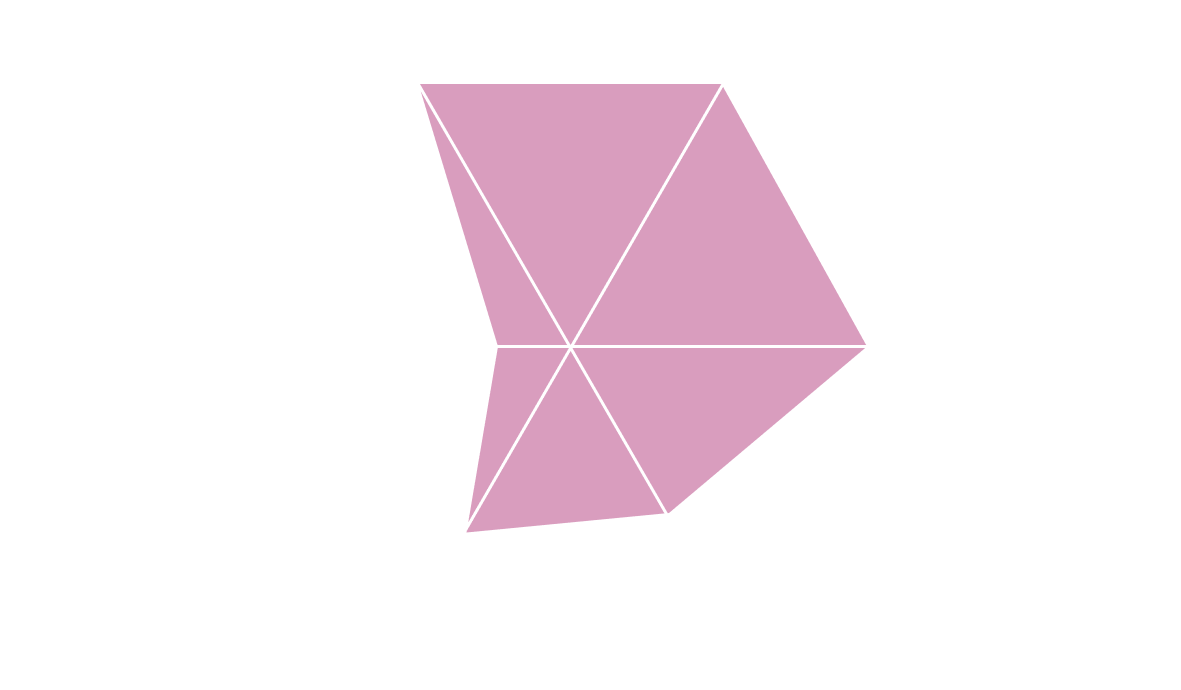
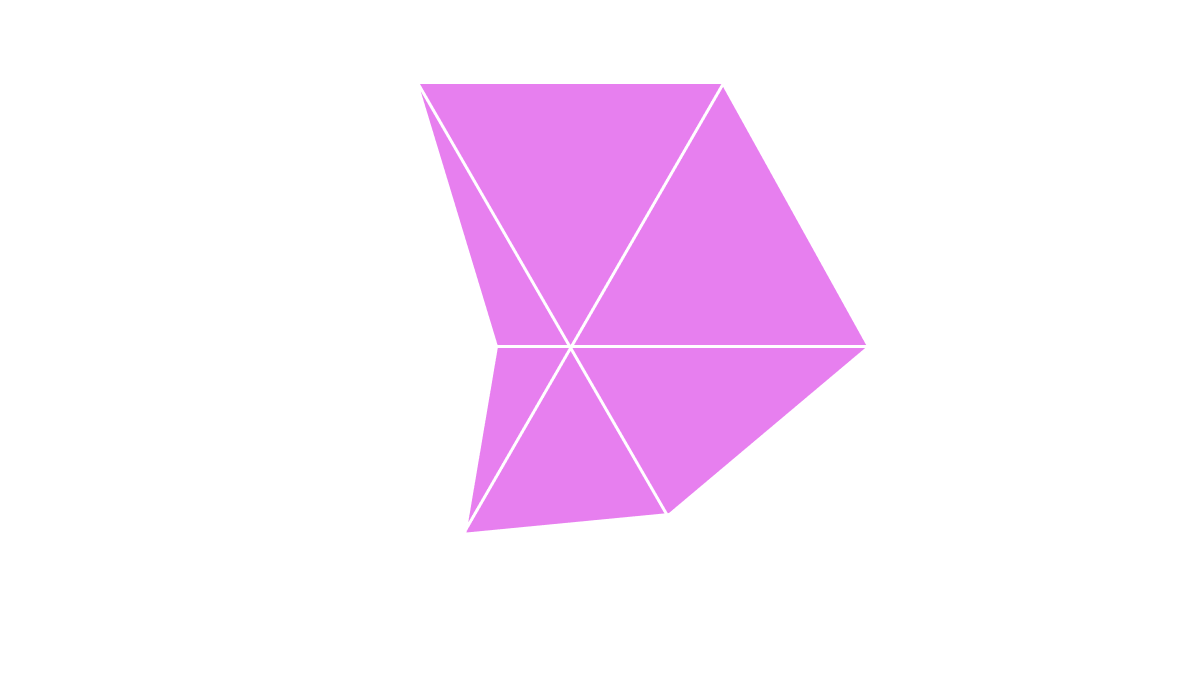
changing colors

Changed region(s): [[0.3353, 0.1217, 0.7316, 0.7913]]

diff --git a/src/reservation.html b/src/reservation.html
@@ -84,14 +84,14 @@
                 >
                   <path
                     d="M124.5 100.995V37.4861C124.5 36.7541 124.305 36.0353 123.933 35.4045C123.562 34.7736 123.029 34.2536 122.389 33.8986L64.9885 2.01429C64.3801 1.67685 63.6958 1.49979 63 1.49979C62.3043 1.49979 61.6199 1.67685 61.0115 2.01429L3.6115 33.8986C2.97134 34.2536 2.4379 34.7736 2.06659 35.4045C1.69528 36.0353 1.49964 36.7541 1.5 37.4861V100.995C1.50086 101.726 1.69708 102.443 2.06832 103.073C2.43957 103.702 2.97235 104.221 3.6115 104.576L61.0115 136.467C61.6199 136.804 62.3043 136.981 63 136.981C63.6958 136.981 64.3801 136.804 64.9885 136.467L122.389 104.576C123.028 104.221 123.56 103.702 123.932 103.073C124.303 102.443 124.499 101.726 124.5 100.995Z"
-                    stroke="#22E100"
+                    stroke="var(--green)"
                     stroke-width="3"
                     stroke-linecap="round"
                     stroke-linejoin="round"
                   />
                   <path
                     d="M3.5 102.5L61.0047 70.3478C61.614 70.0091 62.2995 69.8314 62.9966 69.8314C63.6937 69.8314 64.3793 70.0091 64.9885 70.3478L123 102.5M63 3V69.2408"
-                    stroke="#22E100"
+                    stroke="var(--green)"
                     stroke-width="3"
                     stroke-linecap="round"
                     stroke-linejoin="round"
@@ -143,14 +143,14 @@
                 >
                   <path
                     d="M124.5 100.995V37.4861C124.5 36.7541 124.305 36.0353 123.933 35.4045C123.562 34.7736 123.029 34.2536 122.389 33.8986L64.9885 2.01429C64.3801 1.67685 63.6958 1.49979 63 1.49979C62.3043 1.49979 61.6199 1.67685 61.0115 2.01429L3.6115 33.8986C2.97134 34.2536 2.4379 34.7736 2.06659 35.4045C1.69528 36.0353 1.49964 36.7541 1.5 37.4861V100.995C1.50086 101.726 1.69708 102.443 2.06832 103.073C2.43957 103.702 2.97235 104.221 3.6115 104.576L61.0115 136.467C61.6199 136.804 62.3043 136.981 63 136.981C63.6958 136.981 64.3801 136.804 64.9885 136.467L122.389 104.576C123.028 104.221 123.56 103.702 123.932 103.073C124.303 102.443 124.499 101.726 124.5 100.995Z"
-                    stroke="#B43B7D"
+                    stroke="var(--pink)"
                     stroke-width="3"
                     stroke-linecap="round"
                     stroke-linejoin="round"
                   />
                   <path
                     d="M3.5 102.5L61.0047 70.3478C61.614 70.0091 62.2995 69.8314 62.9966 69.8314C63.6937 69.8314 64.3793 70.0091 64.9885 70.3478L123 102.5M63 3V69.2408"
-                    stroke="#B43B7D"
+                    stroke="var(--pink)"
                     stroke-width="3"
                     stroke-linecap="round"
                     stroke-linejoin="round"

diff --git a/src/salle-forest.html b/src/salle-forest.html
@@ -86,14 +86,14 @@
                 >
                   <path
                     d="M124.5 100.995V37.4861C124.5 36.7541 124.305 36.0353 123.933 35.4045C123.562 34.7736 123.029 34.2536 122.389 33.8986L64.9885 2.01429C64.3801 1.67685 63.6958 1.49979 63 1.49979C62.3043 1.49979 61.6199 1.67685 61.0115 2.01429L3.6115 33.8986C2.97134 34.2536 2.4379 34.7736 2.06659 35.4045C1.69528 36.0353 1.49964 36.7541 1.5 37.4861V100.995C1.50086 101.726 1.69708 102.443 2.06832 103.073C2.43957 103.702 2.97235 104.221 3.6115 104.576L61.0115 136.467C61.6199 136.804 62.3043 136.981 63 136.981C63.6958 136.981 64.3801 136.804 64.9885 136.467L122.389 104.576C123.028 104.221 123.56 103.702 123.932 103.073C124.303 102.443 124.499 101.726 124.5 100.995Z"
-                    stroke="#22E100"
+                    stroke="var(--green)"
                     stroke-width="3"
                     stroke-linecap="round"
                     stroke-linejoin="round"
                   />
                   <path
                     d="M3.5 102.5L61.0047 70.3478C61.614 70.0091 62.2995 69.8314 62.9966 69.8314C63.6937 69.8314 64.3793 70.0091 64.9885 70.3478L123 102.5M63 3V69.2408"
-                    stroke="#22E100"
+                    stroke="var(--green)"
                     stroke-width="3"
                     stroke-linecap="round"
                     stroke-linejoin="round"
@@ -145,14 +145,14 @@
                 >
                   <path
                     d="M124.5 100.995V37.4861C124.5 36.7541 124.305 36.0353 123.933 35.4045C123.562 34.7736 123.029 34.2536 122.389 33.8986L64.9885 2.01429C64.3801 1.67685 63.6958 1.49979 63 1.49979C62.3043 1.49979 61.6199 1.67685 61.0115 2.01429L3.6115 33.8986C2.97134 34.2536 2.4379 34.7736 2.06659 35.4045C1.69528 36.0353 1.49964 36.7541 1.5 37.4861V100.995C1.50086 101.726 1.69708 102.443 2.06832 103.073C2.43957 103.702 2.97235 104.221 3.6115 104.576L61.0115 136.467C61.6199 136.804 62.3043 136.981 63 136.981C63.6958 136.981 64.3801 136.804 64.9885 136.467L122.389 104.576C123.028 104.221 123.56 103.702 123.932 103.073C124.303 102.443 124.499 101.726 124.5 100.995Z"
-                    stroke="#B43B7D"
+                    stroke="var(--pink)"
                     stroke-width="3"
                     stroke-linecap="round"
                     stroke-linejoin="round"
                   />
                   <path
                     d="M3.5 102.5L61.0047 70.3478C61.614 70.0091 62.2995 69.8314 62.9966 69.8314C63.6937 69.8314 64.3793 70.0091 64.9885 70.3478L123 102.5M63 3V69.2408"
-                    stroke="#B43B7D"
+                    stroke="var(--pink)"
                     stroke-width="3"
                     stroke-linecap="round"
                     stroke-linejoin="round"

diff --git a/src/salle-pirate.html b/src/salle-pirate.html
@@ -86,14 +86,14 @@
                 >
                   <path
                     d="M124.5 100.995V37.4861C124.5 36.7541 124.305 36.0353 123.933 35.4045C123.562 34.7736 123.029 34.2536 122.389 33.8986L64.9885 2.01429C64.3801 1.67685 63.6958 1.49979 63 1.49979C62.3043 1.49979 61.6199 1.67685 61.0115 2.01429L3.6115 33.8986C2.97134 34.2536 2.4379 34.7736 2.06659 35.4045C1.69528 36.0353 1.49964 36.7541 1.5 37.4861V100.995C1.50086 101.726 1.69708 102.443 2.06832 103.073C2.43957 103.702 2.97235 104.221 3.6115 104.576L61.0115 136.467C61.6199 136.804 62.3043 136.981 63 136.981C63.6958 136.981 64.3801 136.804 64.9885 136.467L122.389 104.576C123.028 104.221 123.56 103.702 123.932 103.073C124.303 102.443 124.499 101.726 124.5 100.995Z"
-                    stroke="#22E100"
+                    stroke="var(--green)"
                     stroke-width="3"
                     stroke-linecap="round"
                     stroke-linejoin="round"
                   />
                   <path
                     d="M3.5 102.5L61.0047 70.3478C61.614 70.0091 62.2995 69.8314 62.9966 69.8314C63.6937 69.8314 64.3793 70.0091 64.9885 70.3478L123 102.5M63 3V69.2408"
-                    stroke="#22E100"
+                    stroke="var(--green)"
                     stroke-width="3"
                     stroke-linecap="round"
                     stroke-linejoin="round"
@@ -145,14 +145,14 @@
                 >
                   <path
                     d="M124.5 100.995V37.4861C124.5 36.7541 124.305 36.0353 123.933 35.4045C123.562 34.7736 123.029 34.2536 122.389 33.8986L64.9885 2.01429C64.3801 1.67685 63.6958 1.49979 63 1.49979C62.3043 1.49979 61.6199 1.67685 61.0115 2.01429L3.6115 33.8986C2.97134 34.2536 2.4379 34.7736 2.06659 35.4045C1.69528 36.0353 1.49964 36.7541 1.5 37.4861V100.995C1.50086 101.726 1.69708 102.443 2.06832 103.073C2.43957 103.702 2.97235 104.221 3.6115 104.576L61.0115 136.467C61.6199 136.804 62.3043 136.981 63 136.981C63.6958 136.981 64.3801 136.804 64.9885 136.467L122.389 104.576C123.028 104.221 123.56 103.702 123.932 103.073C124.303 102.443 124.499 101.726 124.5 100.995Z"
-                    stroke="#B43B7D"
+                    stroke="var(--pink)"
                     stroke-width="3"
                     stroke-linecap="round"
                     stroke-linejoin="round"
                   />
                   <path
                     d="M3.5 102.5L61.0047 70.3478C61.614 70.0091 62.2995 69.8314 62.9966 69.8314C63.6937 69.8314 64.3793 70.0091 64.9885 70.3478L123 102.5M63 3V69.2408"
-                    stroke="#B43B7D"
+                    stroke="var(--pink)"
                     stroke-width="3"
                     stroke-linecap="round"
                     stroke-linejoin="round"

diff --git a/src/salle-witch.html b/src/salle-witch.html
@@ -86,14 +86,14 @@
                 >
                   <path
                     d="M124.5 100.995V37.4861C124.5 36.7541 124.305 36.0353 123.933 35.4045C123.562 34.7736 123.029 34.2536 122.389 33.8986L64.9885 2.01429C64.3801 1.67685 63.6958 1.49979 63 1.49979C62.3043 1.49979 61.6199 1.67685 61.0115 2.01429L3.6115 33.8986C2.97134 34.2536 2.4379 34.7736 2.06659 35.4045C1.69528 36.0353 1.49964 36.7541 1.5 37.4861V100.995C1.50086 101.726 1.69708 102.443 2.06832 103.073C2.43957 103.702 2.97235 104.221 3.6115 104.576L61.0115 136.467C61.6199 136.804 62.3043 136.981 63 136.981C63.6958 136.981 64.3801 136.804 64.9885 136.467L122.389 104.576C123.028 104.221 123.56 103.702 123.932 103.073C124.303 102.443 124.499 101.726 124.5 100.995Z"
-                    stroke="#22E100"
+                    stroke="var(--green)"
                     stroke-width="3"
                     stroke-linecap="round"
                     stroke-linejoin="round"
                   />
                   <path
                     d="M3.5 102.5L61.0047 70.3478C61.614 70.0091 62.2995 69.8314 62.9966 69.8314C63.6937 69.8314 64.3793 70.0091 64.9885 70.3478L123 102.5M63 3V69.2408"
-                    stroke="#22E100"
+                    stroke="var(--green)"
                     stroke-width="3"
                     stroke-linecap="round"
                     stroke-linejoin="round"
@@ -145,14 +145,14 @@
                 >
                   <path
                     d="M124.5 100.995V37.4861C124.5 36.7541 124.305 36.0353 123.933 35.4045C123.562 34.7736 123.029 34.2536 122.389 33.8986L64.9885 2.01429C64.3801 1.67685 63.6958 1.49979 63 1.49979C62.3043 1.49979 61.6199 1.67685 61.0115 2.01429L3.6115 33.8986C2.97134 34.2536 2.4379 34.7736 2.06659 35.4045C1.69528 36.0353 1.49964 36.7541 1.5 37.4861V100.995C1.50086 101.726 1.69708 102.443 2.06832 103.073C2.43957 103.702 2.97235 104.221 3.6115 104.576L61.0115 136.467C61.6199 136.804 62.3043 136.981 63 136.981C63.6958 136.981 64.3801 136.804 64.9885 136.467L122.389 104.576C123.028 104.221 123.56 103.702 123.932 103.073C124.303 102.443 124.499 101.726 124.5 100.995Z"
-                    stroke="#B43B7D"
+                    stroke="var(--pink)"
                     stroke-width="3"
                     stroke-linecap="round"
                     stroke-linejoin="round"
                   />
                   <path
                     d="M3.5 102.5L61.0047 70.3478C61.614 70.0091 62.2995 69.8314 62.9966 69.8314C63.6937 69.8314 64.3793 70.0091 64.9885 70.3478L123 102.5M63 3V69.2408"
-                    stroke="#B43B7D"
+                    stroke="var(--pink)"
                     stroke-width="3"
                     stroke-linecap="round"
                     stroke-linejoin="round"

diff --git a/src/scss/_base.scss b/src/scss/_base.scss
@@ -24,9 +24,9 @@ html {
   --accent-light: #67c5c0;
   --zone: rgba(235, 239, 242, 0.1);
   --blue: #4abcc9;
-  --green: #3f8d00;
+  --green: #6ff600;
   --red: #e10000;
-  --pink: #b43b7d;
+  --pink: #d100df;
 }
 
 body {
